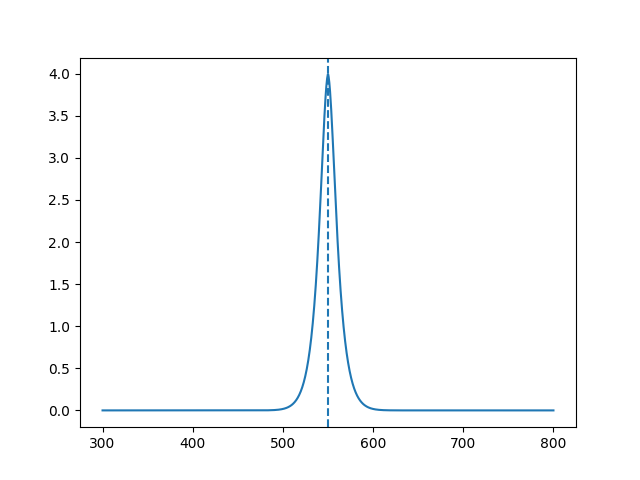
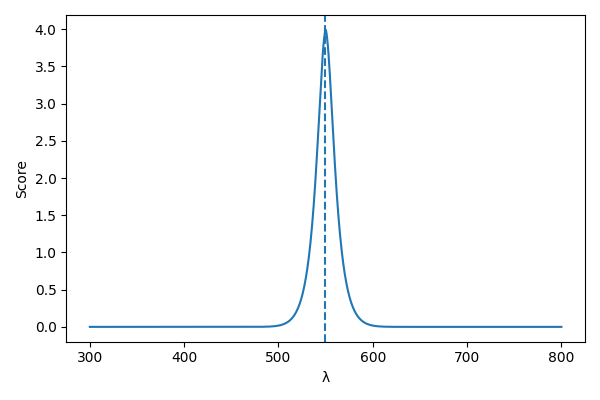
AZOTH v1.1 — snapshot-evolving sensory optimum

diff --git a/dashboard/dashboard.html b/dashboard/dashboard.html
@@ -1,6 +1,10 @@
 <!doctype html>
-<html><body style='background:black;color:#eee'>
+<html>
+<body style="background:black;color:#eee;font-family:sans-serif">
 <h1>𓂀 AZOTH</h1>
-<p>λ* = 549.791492910759</p>
-<img src='../visuals/optimum.png'/>
-</body></html>
+<p><b>λ*</b> = 549.791492910759</p>
+<p><b>H7</b> = 0.70</p>
+<p><b>Hash</b> = 04ef16ff9dd80163…</p>
+<img src="../visuals/optimum.png" style="max-width:90%">
+</body>
+</html>

diff --git a/engine/azoth_engine.py b/engine/azoth_engine.py
@@ -1,9 +1,9 @@
-import numpy as np, json, matplotlib.pyplot as plt
+import numpy as np, json, matplotlib.pyplot as plt, hashlib, datetime
 
 lam = np.linspace(300, 800, 1200)
 
-F = np.exp(-0.5*((lam-550)/90)**2)
-T = np.exp(-0.001*(lam-550)**2)
+F  = np.exp(-0.5*((lam-550)/90)**2)
+T  = np.exp(-0.001*(lam-550)**2)
 Nr = 0.15 + 0.0015*(lam-550)**2
 Ne = 0.10 + 0.002*np.abs(lam-550)
 
@@ -11,14 +11,24 @@ score = (F*T)/(Nr+Ne)
 idx = int(np.argmax(score))
 
 state = {
+  "protocol": "AzothUniversalSensoryOptima",
+  "version": "1.1",
+  "timestamp": datetime.datetime.utcnow().isoformat()+"Z",
   "lambda_star": float(lam[idx]),
   "score": float(score[idx]),
   "H7": 0.70,
   "field": "spectral"
 }
 
+raw = json.dumps(state, sort_keys=True).encode()
+state["hash"] = hashlib.sha256(raw).hexdigest()
+
 json.dump(state, open("state/azoth_state.json","w"), indent=2)
 
+plt.figure(figsize=(6,4))
 plt.plot(lam, score)
 plt.axvline(lam[idx], linestyle="--")
+plt.xlabel("λ")
+plt.ylabel("Score")
+plt.tight_layout()
 plt.savefig("visuals/optimum.png")
